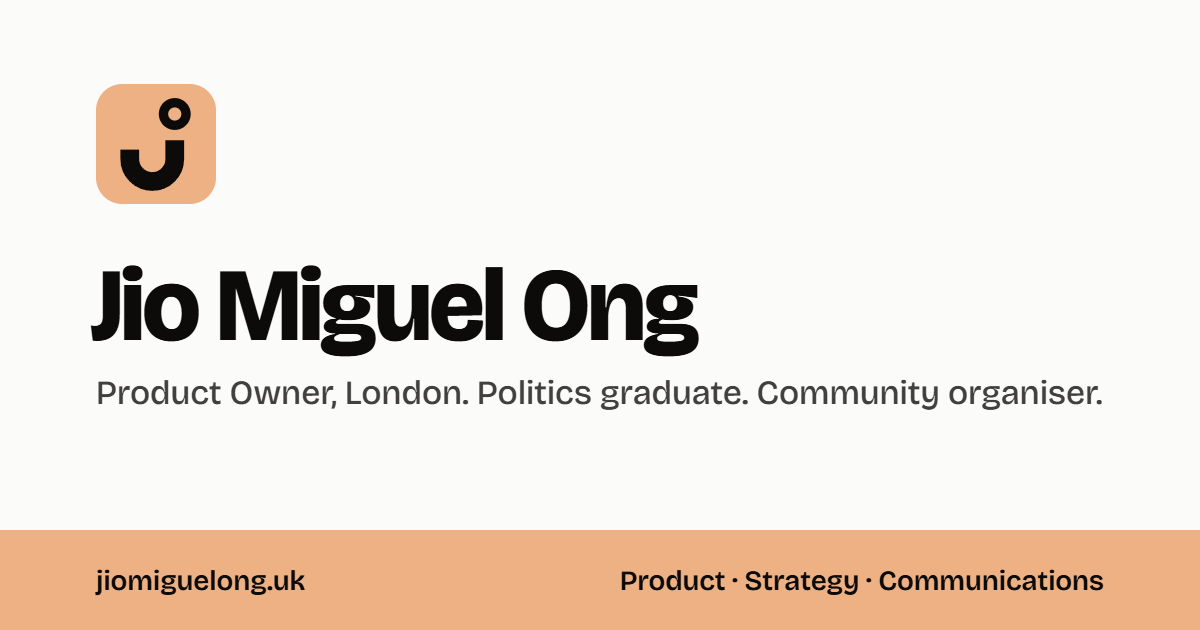
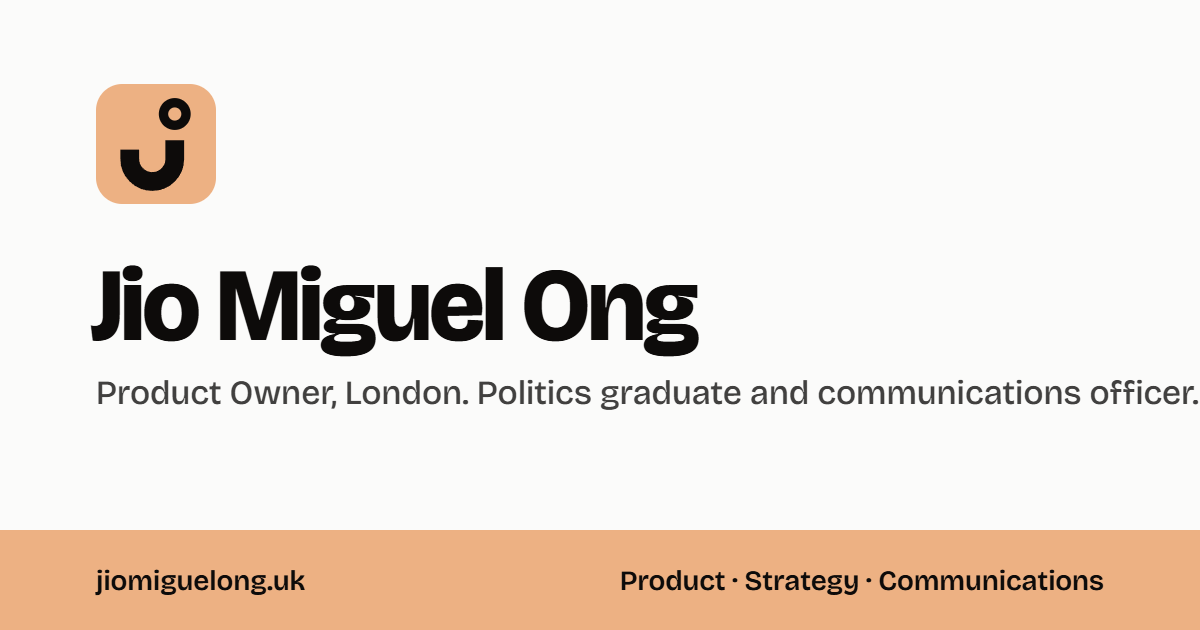
Drop "community organiser" from the hero line and link-preview image

Changed region(s): [[0.6167, 0.6032, 1.0, 0.6635]]

diff --git a/index.html b/index.html
@@ -168,7 +168,7 @@
 
   <section class="hero shell" aria-label="Introduction">
     <h1 class="display nameplate">Jio Miguel Ong</h1>
-    <p class="hero-lede"><span class="hi">Product Owner at Car Planet UK.</span> Politics graduate, community organiser and communications officer, from Cebu and based in London.</p>
+    <p class="hero-lede"><span class="hi">Product Owner at Car Planet UK.</span> Politics graduate and communications officer, from Cebu and based in London.</p>
     <div class="hero-cta">
       <a href="#work" class="btn btn-ghost">Selected work</a>
       <a href="#contact" class="btn btn-amber">Get in touch</a>
